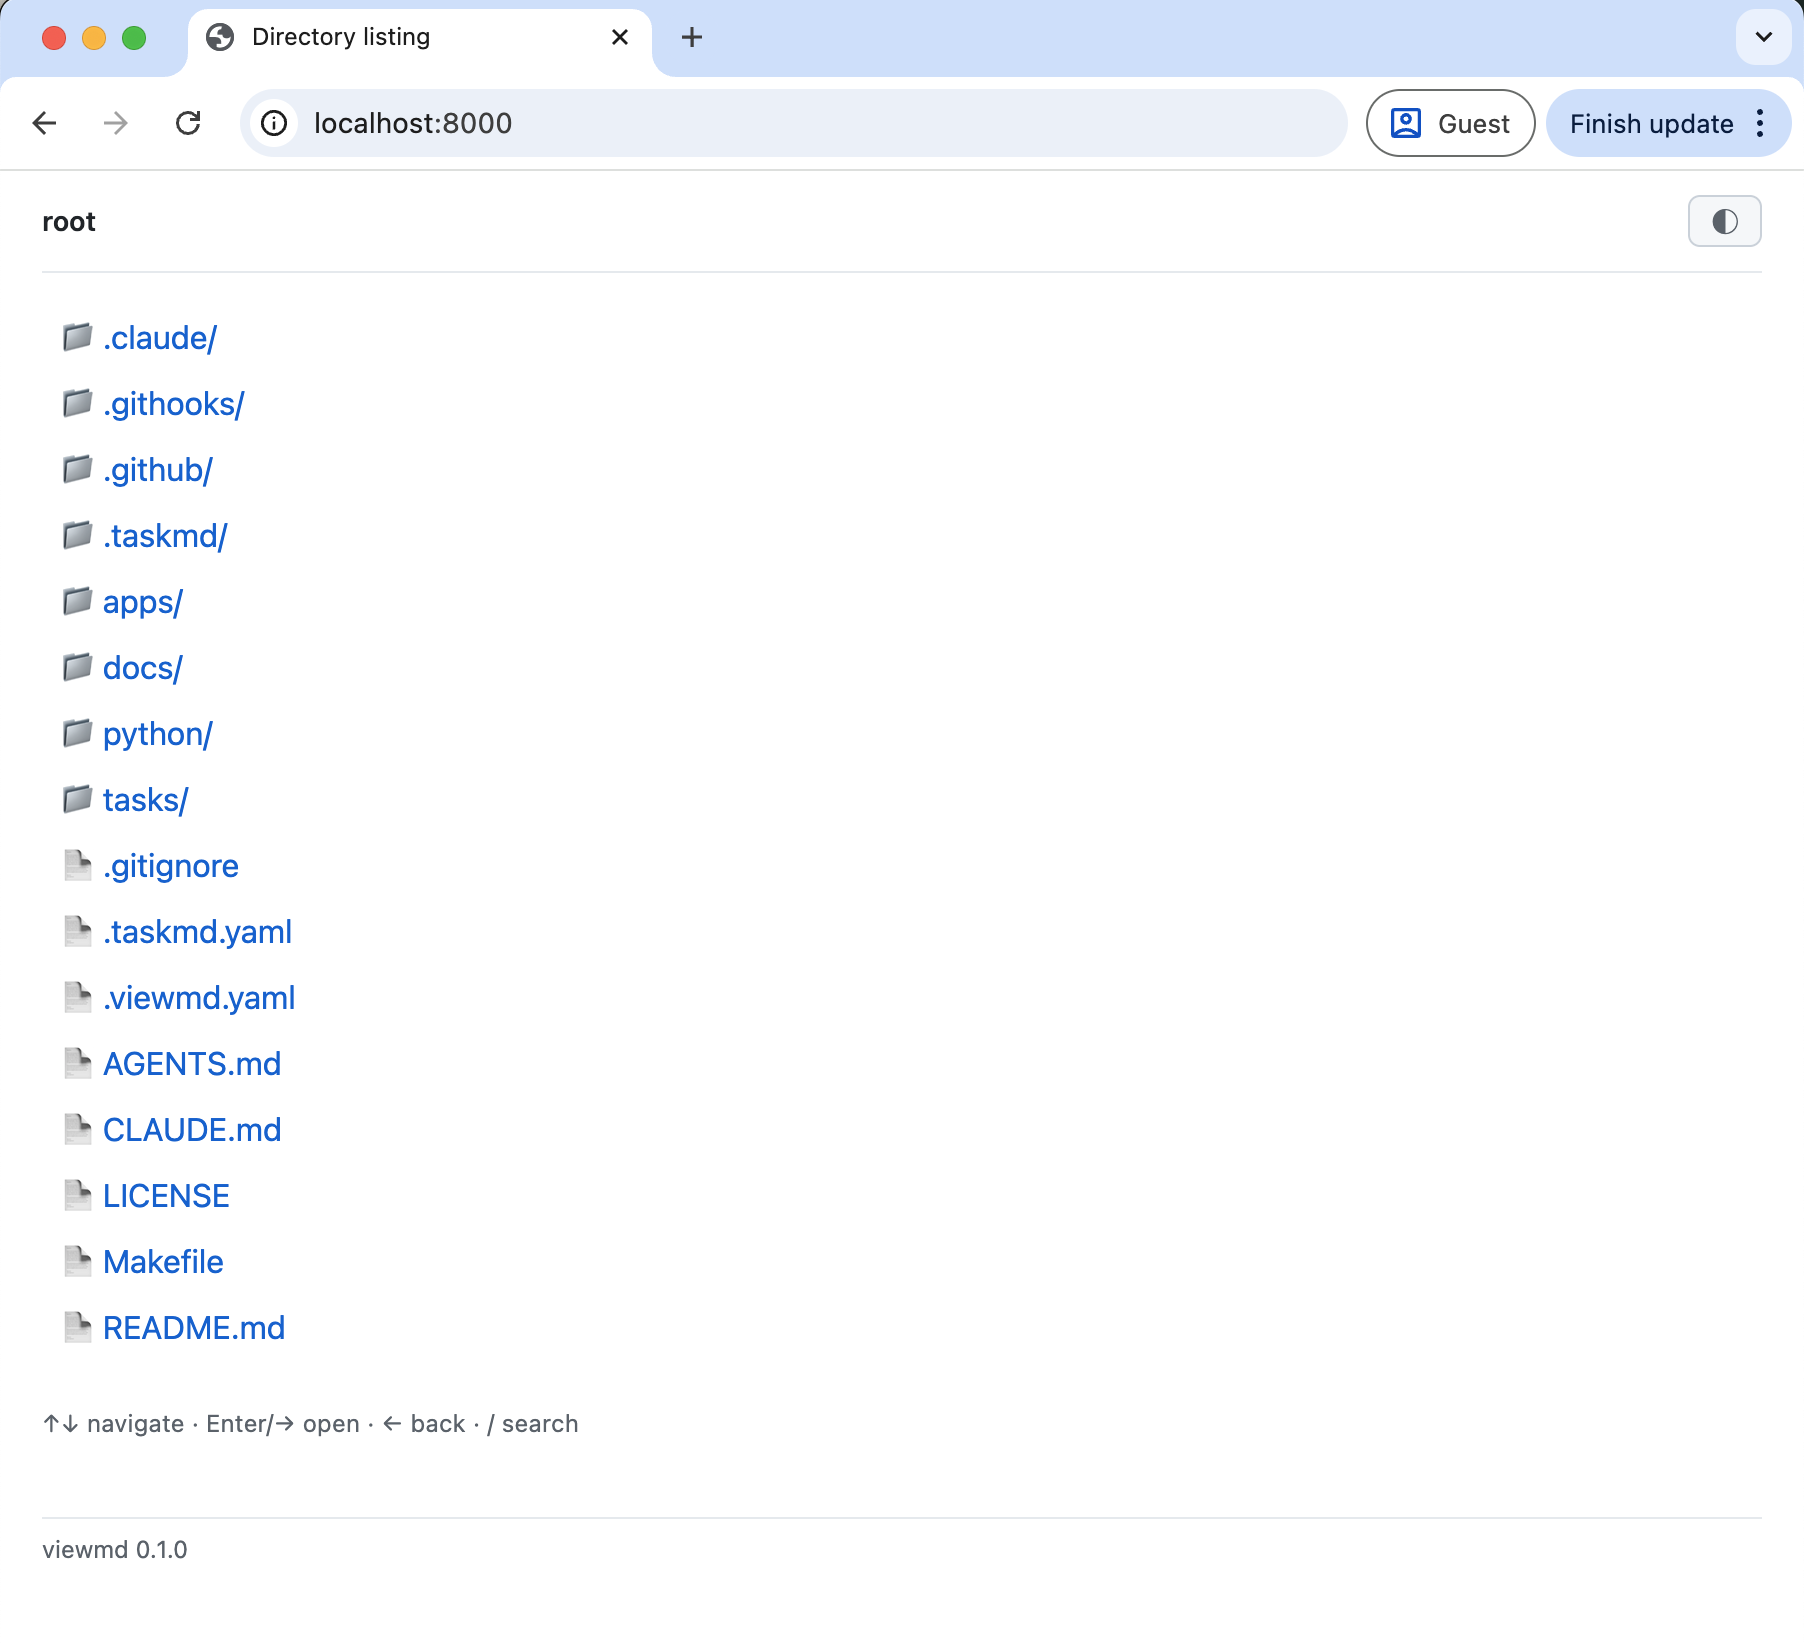
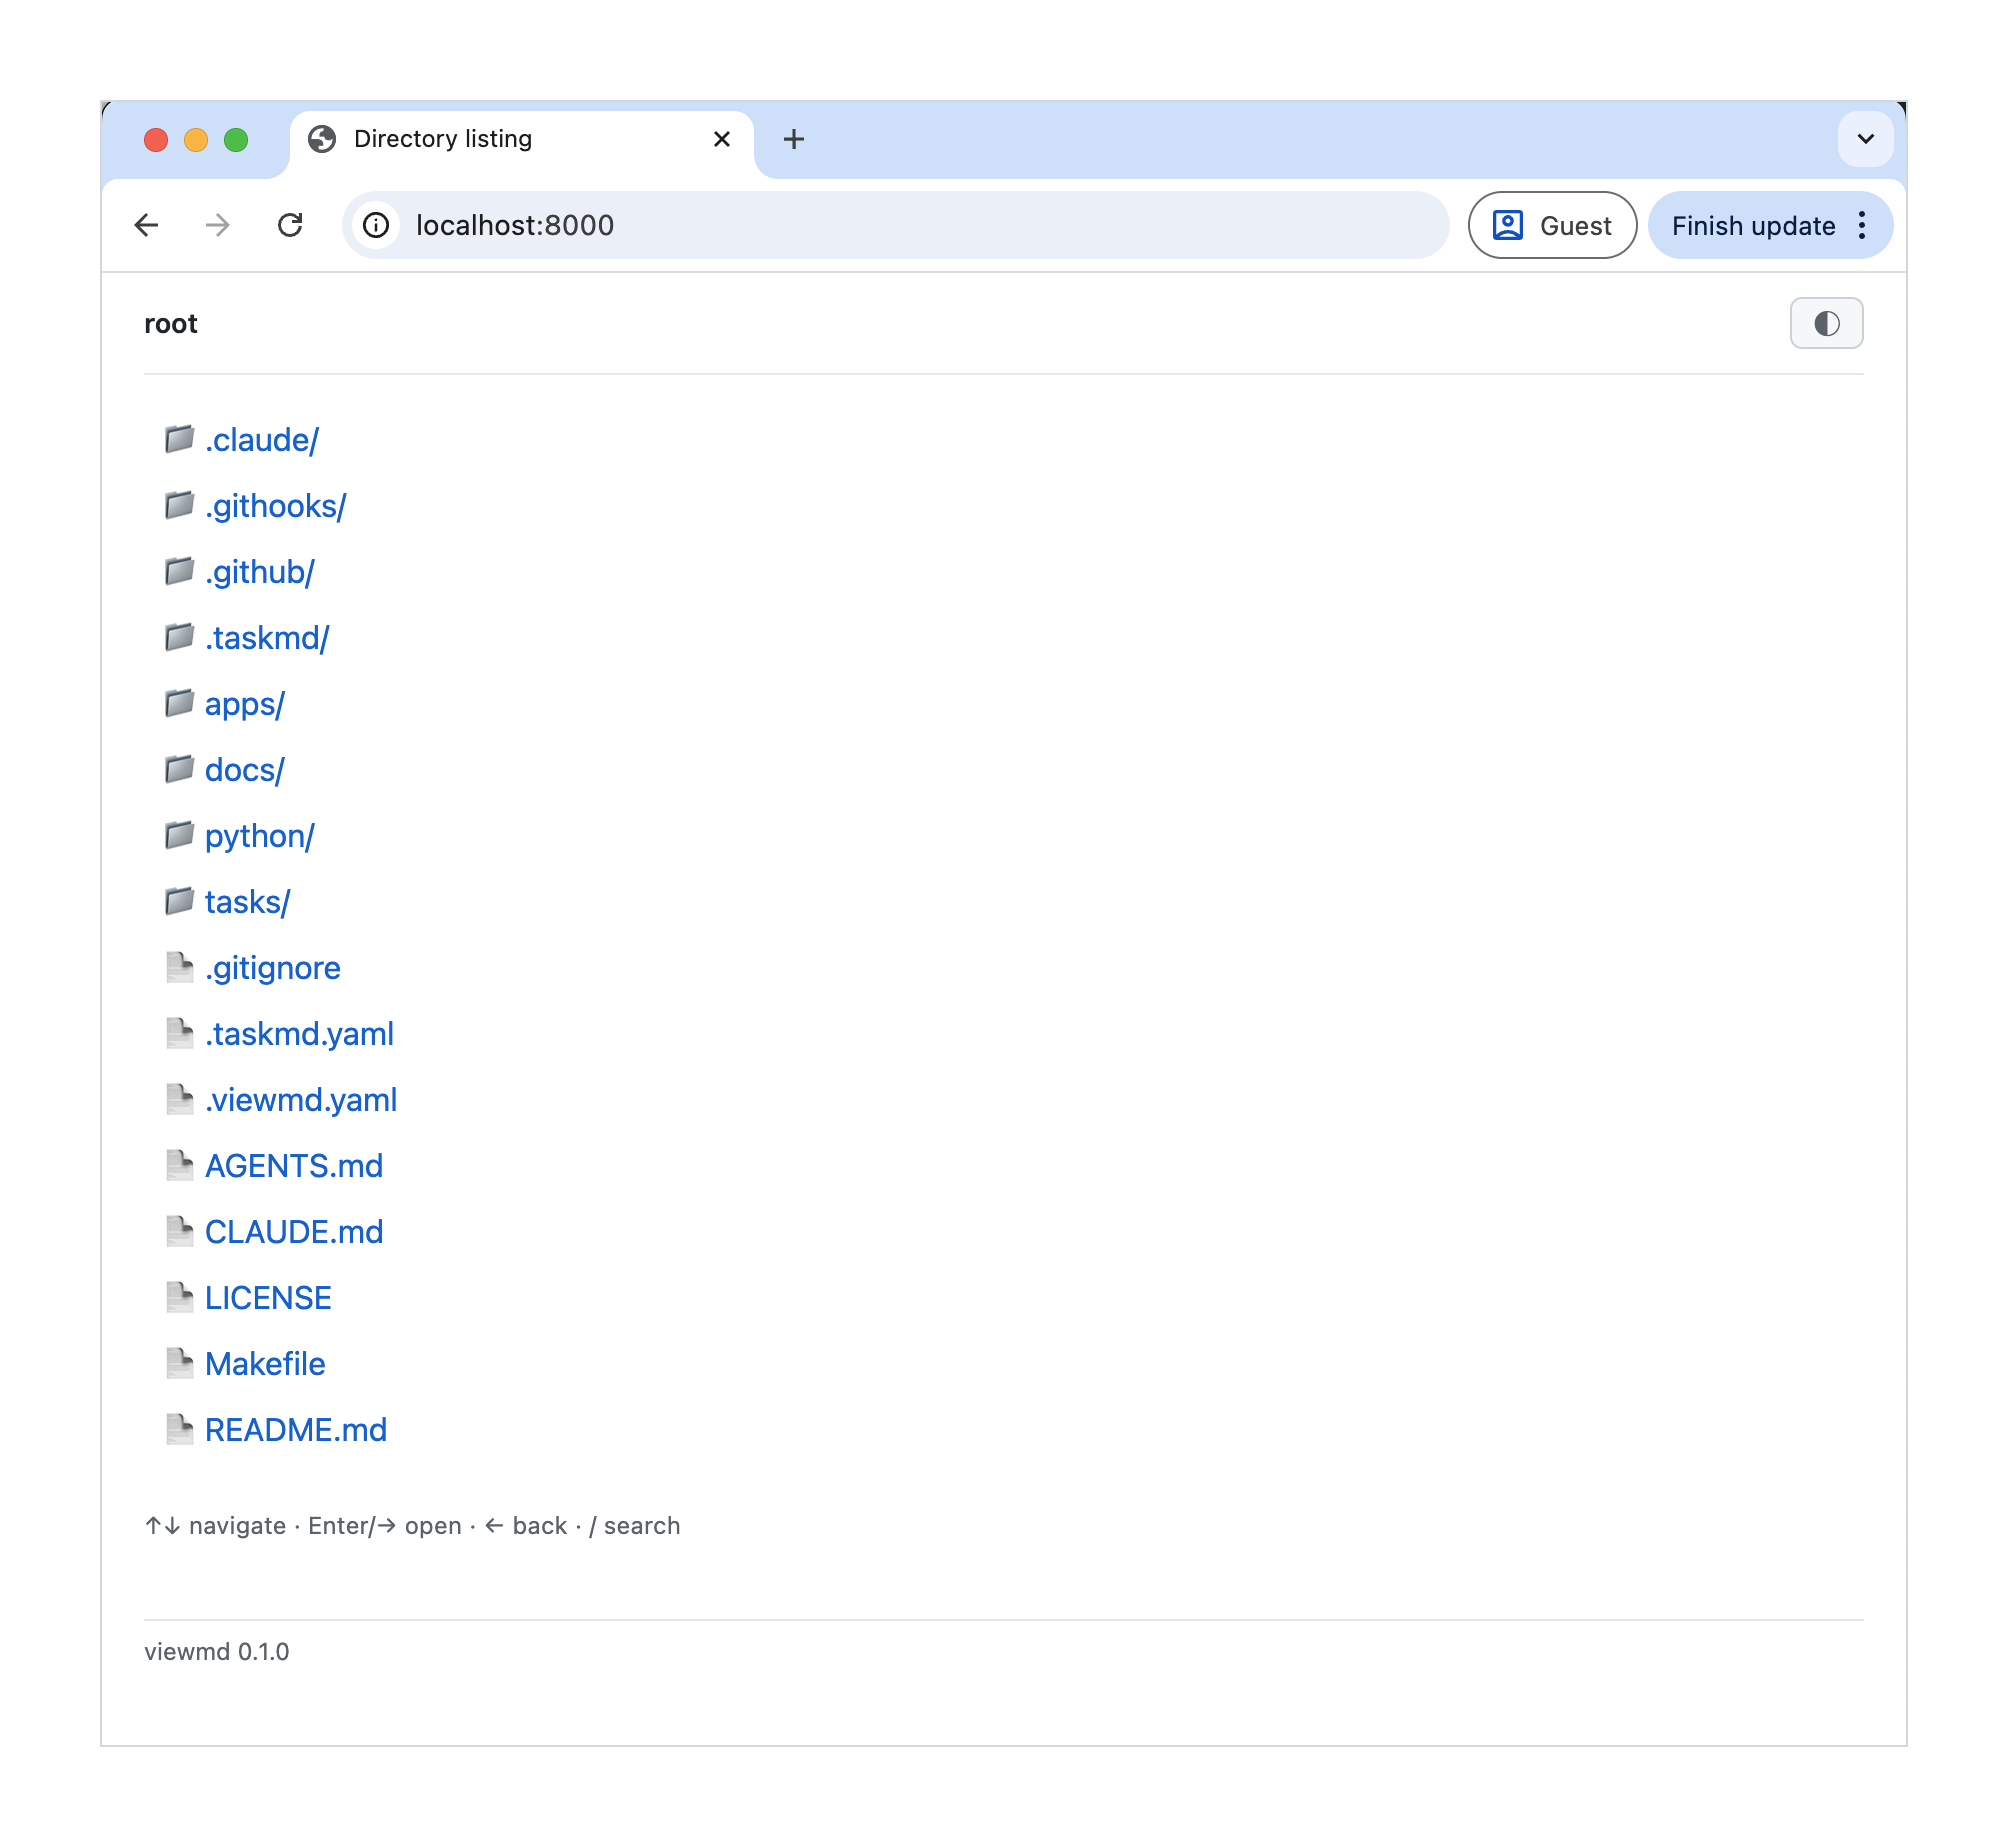
fix images

diff --git a/README.md b/README.md
@@ -26,21 +26,15 @@ viewmd -a       # Show all files, not just markdown
 
 **Markdown rendering** — `.md` files are rendered as styled HTML with full typography support.
 
-<picture>
-  <img src="docs/public/images/viewmd_md.png" alt="Markdown rendering" style="border: 1px solid #d0d7de; border-radius: 6px;" />
-</picture>
+![Markdown rendering](docs/public/images/viewmd_md.png)
 
 **Directory browsing** — Navigate your project with a clean file listing, keyboard shortcuts, and search.
 
-<picture>
-  <img src="docs/public/images/viewmd_dir.png" alt="Directory browsing" style="border: 1px solid #d0d7de; border-radius: 6px;" />
-</picture>
+![Directory browsing](docs/public/images/viewmd_dir.png)
 
 **Code and text files** — View any text file with syntax highlighting, copy support, and dark mode.
 
-<picture>
-  <img src="docs/public/images/viewmd_license.png" alt="Code and text file viewing" style="border: 1px solid #d0d7de; border-radius: 6px;" />
-</picture>
+![Code and text file viewing](docs/public/images/viewmd_license.png)
 
 ## What It Does
 
